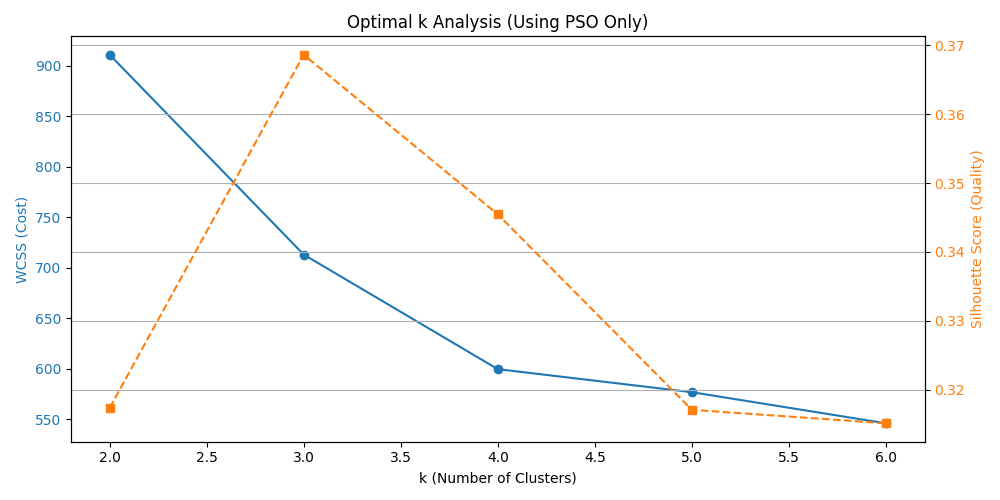
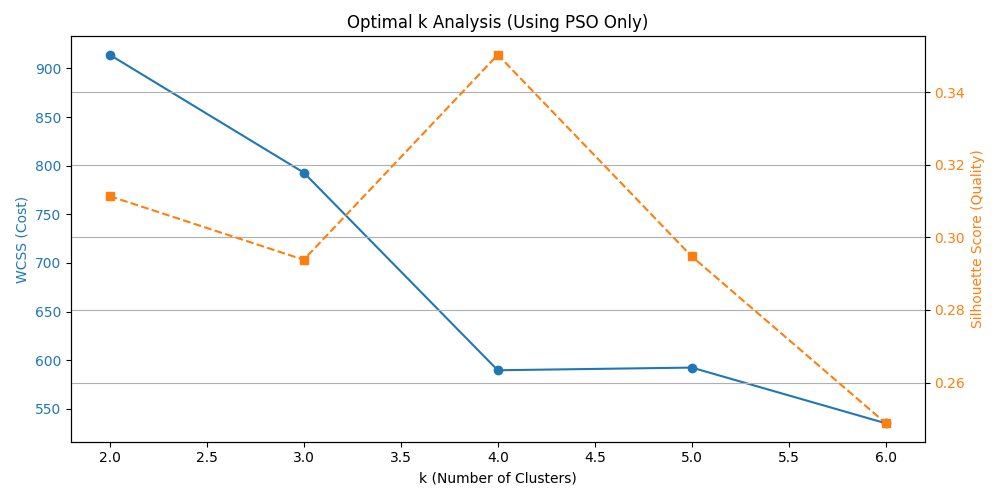
chore: code comment and cleanup

diff --git a/cluster.py b/cluster.py
@@ -3,9 +3,7 @@ import numpy as np
 import matplotlib.pyplot as plt
 from sklearn.decomposition import PCA
 
-# ==========================================
 # 1. DATA PREPROCESSING
-# ==========================================
 print("Loading and Preprocessing Data...")
 df = pd.read_csv("average_metrics_uap_5min.csv")
 
@@ -38,11 +36,8 @@ X_mean = np.mean(X_raw, axis=0)
 X_std = np.std(X_raw, axis=0)
 X = (X_raw - X_mean) / X_std
 
-# ==========================================
+
 # 2. ALGORITHMS FROM SCRATCH (No Sklearn Clustering)
-# ==========================================
-
-
 def get_wcss(particle, data, k):
     """Objective Function: Within-Cluster Sum of Squares"""
     centroids = particle.reshape(k, data.shape[1])
@@ -116,9 +111,9 @@ def run_pso(data, k, n_particles=20, max_iters=30):
     history = [gbest_score]
 
     # PSO Parameters
-    w = 0.729  # Inertia
-    c1 = 1.494  # Cognitive (Self)
-    c2 = 1.494  # Social (Swarm)
+    w = 0.7  # Inertia
+    c1 = 1.5  # Cognitive (Self find)
+    c2 = 1.5  # Social (Swarm find)
 
     for _ in range(max_iters):
         for i in range(n_particles):
@@ -152,9 +147,7 @@ def run_pso(data, k, n_particles=20, max_iters=30):
     return gbest_pos, history
 
 
-# ==========================================
 # 3. OPTIMAL K ANALYSIS (Using PSO)
-# ==========================================
 print("\n--- Step 1: Finding Optimal k using PSO ---")
 k_range = range(2, 7)
 wcss_results = []
@@ -217,9 +210,7 @@ plt.grid(True)
 fig.tight_layout()
 plt.savefig("final_k_analysis.png")
 
-# ==========================================
 # 4. SAVE & VISUALIZE FINAL RESULTS
-# ==========================================
 print(f"\n--- Step 2: Finalizing Results for k={best_k} ---")
 
 # Assign Cluster Names (Interpretation)
